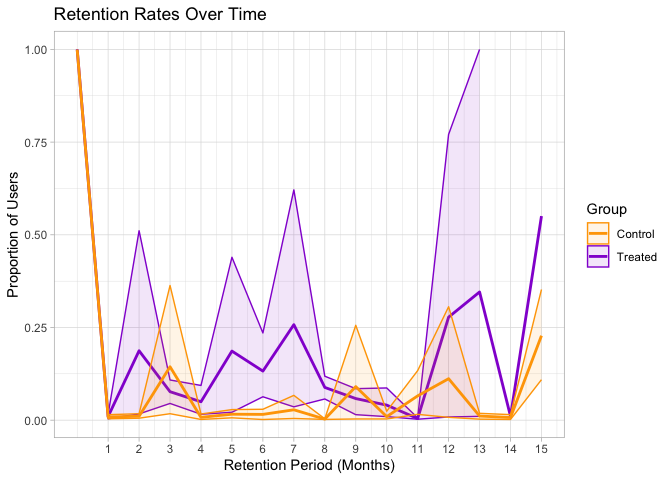
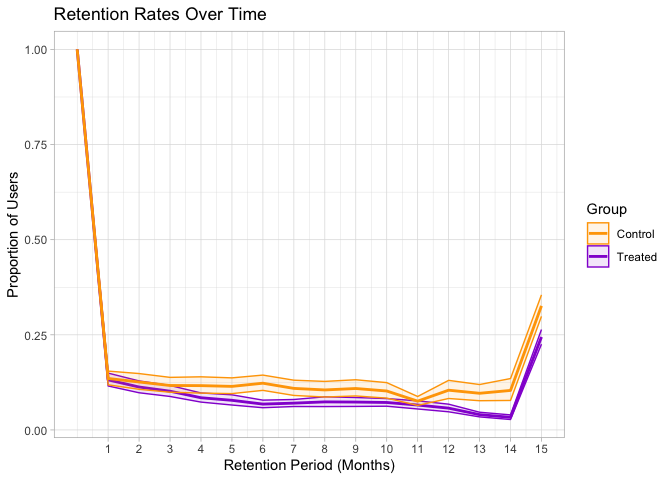
more data as example

diff --git a/README.md b/README.md
@@ -6,14 +6,15 @@
 <!-- badges: start -->
 <!-- badges: end -->
 
-SocialMediaRetention aims to compute the retention rates for two cohorts
-of users (for instance, YouTube commenters who interact with videos
-released at different periods). Here is an example:
+`SocialMediaRetention` aims to compute the retention rates for two
+cohorts of users (for instance, YouTube commenters who interact with
+videos released at different periods). Here is an example:
 <https://firstmonday.org/ojs/index.php/fm/article/view/12882>
 
 ## Installation
 
-You can install the development version of SocialMediaRetention like so:
+You can install the development version of `SocialMediaRetention` like
+so:
 
 ``` r
 devtools::install_github("aidar-zinnatullin/SocialMediaRetention")
@@ -62,9 +63,28 @@ head(control_ci_data, n = 5)
 You’ll still need to render `README.Rmd` regularly, to keep `README.md`
 up-to-date. `devtools::build_readme()` is handy for this.
 
-You can also embed plots, for example:
+The `visualize_retention` command generates a graph that displays
+Retention Rates Over Time. The plot showcases how the proportion of
+users retained varies across different retention periods (in months) and
+compares two groups: Control and Treated. This visualization uses lines
+with shaded areas to highlight the trends and differences in user
+retention between these groups over a specified timeframe. This tool is
+ideal for analyzing the long-term impact of interventions or treatments
+on user engagement.
+
+``` r
+plot <- visualize_retention(treated_data = progov_treated_yt_n, control_data = progov_control_yt_n)
+plot
+```
 
 <img src="man/figures/README-pressure-1.png" width="100%" />
 
 In that case, don’t forget to commit and push the resulting figure
 files, so they display on GitHub and CRAN.
+
+## References
+
+1.  Zinnatullin, A. (2023). Navalny’s direct-casting: Affective
+    attunement and polarization in the online community of the most
+    vocal Russian opposition politician. First Monday,
+    <https://firstmonday.org/ojs/index.php/fm/article/view/12882>.
